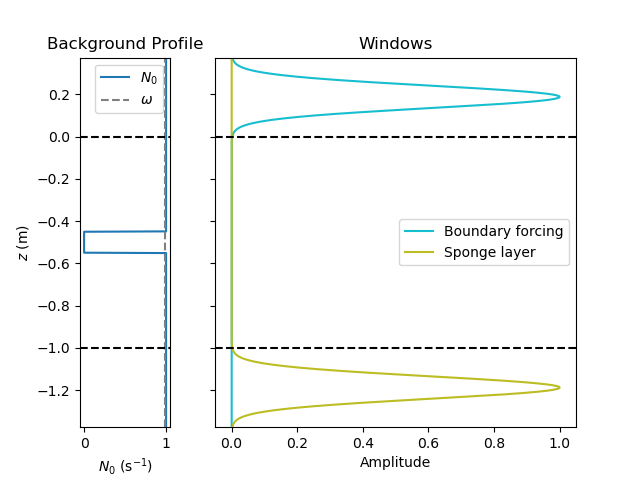
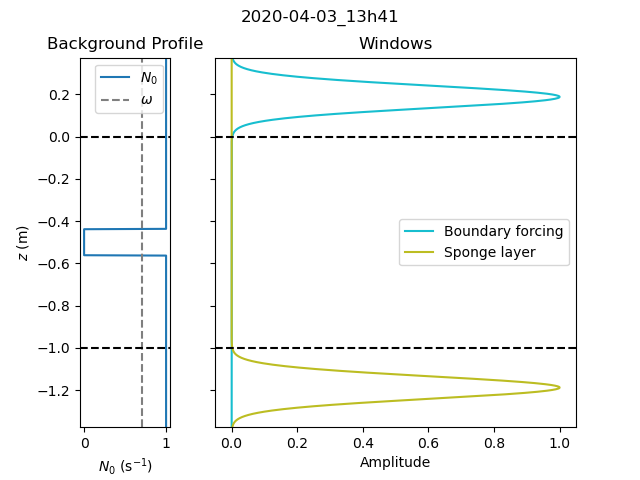
The name -n flag now appears in title of all plots from a run

Changed region(s): [[0.375, 0.0, 0.625, 0.0625], [0.125, 0.4688, 0.2812, 0.5625]]

diff --git a/helper_functions.py b/helper_functions.py
@@ -82,7 +82,7 @@ def plot_BP(ax, BP, z, omega=None, z0_dis=None, zf_dis=None):
         ax.axvline(x=omega, color=my_clrs['tab:gray'], linestyle='--', label=r'$\omega$')
         ax.legend()
 
-def plot_v_profiles(BP_array, bf_array, sp_array, z, omega=None, z0_dis=None, zf_dis=None):
+def plot_v_profiles(BP_array, bf_array, sp_array, z, omega=None, z0_dis=None, zf_dis=None, title_str='Forced 1D Wave'):
     # This dictionary makes each subplot have the desired ratios
     # The length of heights will be nrows and likewise len(widths)=ncols
     plot_ratios = {'height_ratios': [1],
@@ -101,11 +101,12 @@ def plot_v_profiles(BP_array, bf_array, sp_array, z, omega=None, z0_dis=None, zf
     axes[1].set_title(r'Windows')
     axes[1].legend()
     #
+    fig.suptitle(r'%s' %(title_str))
     plt.savefig('f_1D_windows.png')
 
 ###############################################################################
 
-def plot_z_vs_t(z, t_array, T, w_array, BP_array, k, m, omega, z0_dis=None, zf_dis=None, c_map='RdBu_r'):
+def plot_z_vs_t(z, t_array, T, w_array, BP_array, k, m, omega, z0_dis=None, zf_dis=None, c_map='RdBu_r', title_str='Forced 1D Wave'):
     # Set aspect ratio of overall figure
     w, h = mpl.figure.figaspect(0.5)
     # This dictionary makes each subplot have the desired ratios
@@ -132,7 +133,7 @@ def plot_z_vs_t(z, t_array, T, w_array, BP_array, k, m, omega, z0_dis=None, zf_d
     axes[1].set_xlabel(r'$t/T$')
     axes[1].set_title(r'$w$ (m/s)')
     param_formated_str = latex_exp(k)+', '+latex_exp(m)+', '+latex_exp(omega)
-    fig.suptitle(r'Forced 1D Wave, $(k,m,\omega)$=(%s)' %(param_formated_str))
+    fig.suptitle(r'%s, $(k,m,\omega)$=(%s)' %(title_str, param_formated_str))
     plt.savefig('f_1D_wave.png')
 
 ###############################################################################

diff --git a/switchboard.py b/switchboard.py
@@ -14,7 +14,7 @@ from dedalus import public as de
 # Main parameters, the ones I'll change a lot. Many more below
 
 # Run parameters
-stop_n_periods = 25             # [] oscillation periods
+stop_n_periods = 15             # [] oscillation periods
 
 # Displayed domain parameters
 nz     = 1024                   # [] number of grid points in the z direction
@@ -26,7 +26,7 @@ z0_dis = zf_dis - Lz_dis        # [m] The bottom of the displayed domain
 # Problem parameters
 A       = 2.0e-4                # []            Amplitude of boundary forcing
 N_0     = 1.0                   # [rad/s]       Reference stratification
-set_case= 2                     # Picks combination of variables to set in switch below
+set_case= 1                     # Picks combination of variables to set in switch below
 if set_case == 1:
     lam_z   = Lz_dis / 8.0          # [m]           Vertical wavelength
     lam_x   = lam_z                 # [m]           Horizontal wavelength
@@ -38,7 +38,7 @@ if set_case == 1:
     omega   = N_0 * np.cos(theta)   # [rad s^-1]    Wave frequency
 elif set_case == 2:
     lam_z   = Lz_dis / 8.0          # [m]           Vertical wavelength
-    omega   = 0.99                # [rad s^-1]    Wave frequency
+    omega   = 0.7071                # [rad s^-1]    Wave frequency
     #
     m       = 2*np.pi / lam_z       # [m^-1]        Vertical wavenumber
     theta   = np.arccos(omega/N_0)  # [rad]         Propagation angle from vertical
@@ -86,7 +86,7 @@ z = domain.grid(0)
 
 # Background profile in N_0
 n_steps = 1
-step_th = 0.1
+step_th = lam_z
 # BP_array = hf.BP_n_steps(n_steps, z, z0_dis, zf_dis, step_th)
 
 # Boundary forcing window 2

diff --git a/main.py b/main.py
@@ -29,7 +29,9 @@ logger = logging.getLogger(__name__)
 import sys
 # Arguments must be passed in the correct order
 arg_array = sys.argv
-switchboard = str(arg_array[0])
+# argv[0] is the name of this file
+run_name = str(arg_array[1])
+switchboard = str(arg_array[2])
 
 # Add functions in helper file
 import helper_functions as hf
@@ -137,7 +139,7 @@ for fld in ['u', 'w', 'b']:#, 'p']:
 ###############################################################################
 # Plotting windows
 if sbp.plot_windows:
-    hf.plot_v_profiles(BP_array, sbp.win_bf_array, sbp.win_sp_array, z, omega, sbp.z0_dis, sbp.zf_dis)
+    hf.plot_v_profiles(BP_array, sbp.win_bf_array, sbp.win_sp_array, z, omega, sbp.z0_dis, sbp.zf_dis, title_str=run_name)
 
 ###############################################################################
 # Define equations
@@ -244,4 +246,4 @@ w_array = np.transpose(np.array(w_list))
 t_array = np.array(t_list)
 
 if sbp.plot_spacetime:
-    hf.plot_z_vs_t(z, t_array, T, w_array, BP_array, k, m, omega, sbp.z0_dis, sbp.zf_dis)
+    hf.plot_z_vs_t(z, t_array, T, w_array, BP_array, k, m, omega, sbp.z0_dis, sbp.zf_dis, title_str=run_name)

diff --git a/plot_slices.py b/plot_slices.py
@@ -87,7 +87,6 @@ dsets = []
 for task in tasks:
     task_tseries = []
     for filename in h5_files:
-        #print(filename)
         with h5py.File(filename, mode='r') as f:
             dset = f['tasks'][task]
             # Check dimensionality of data
